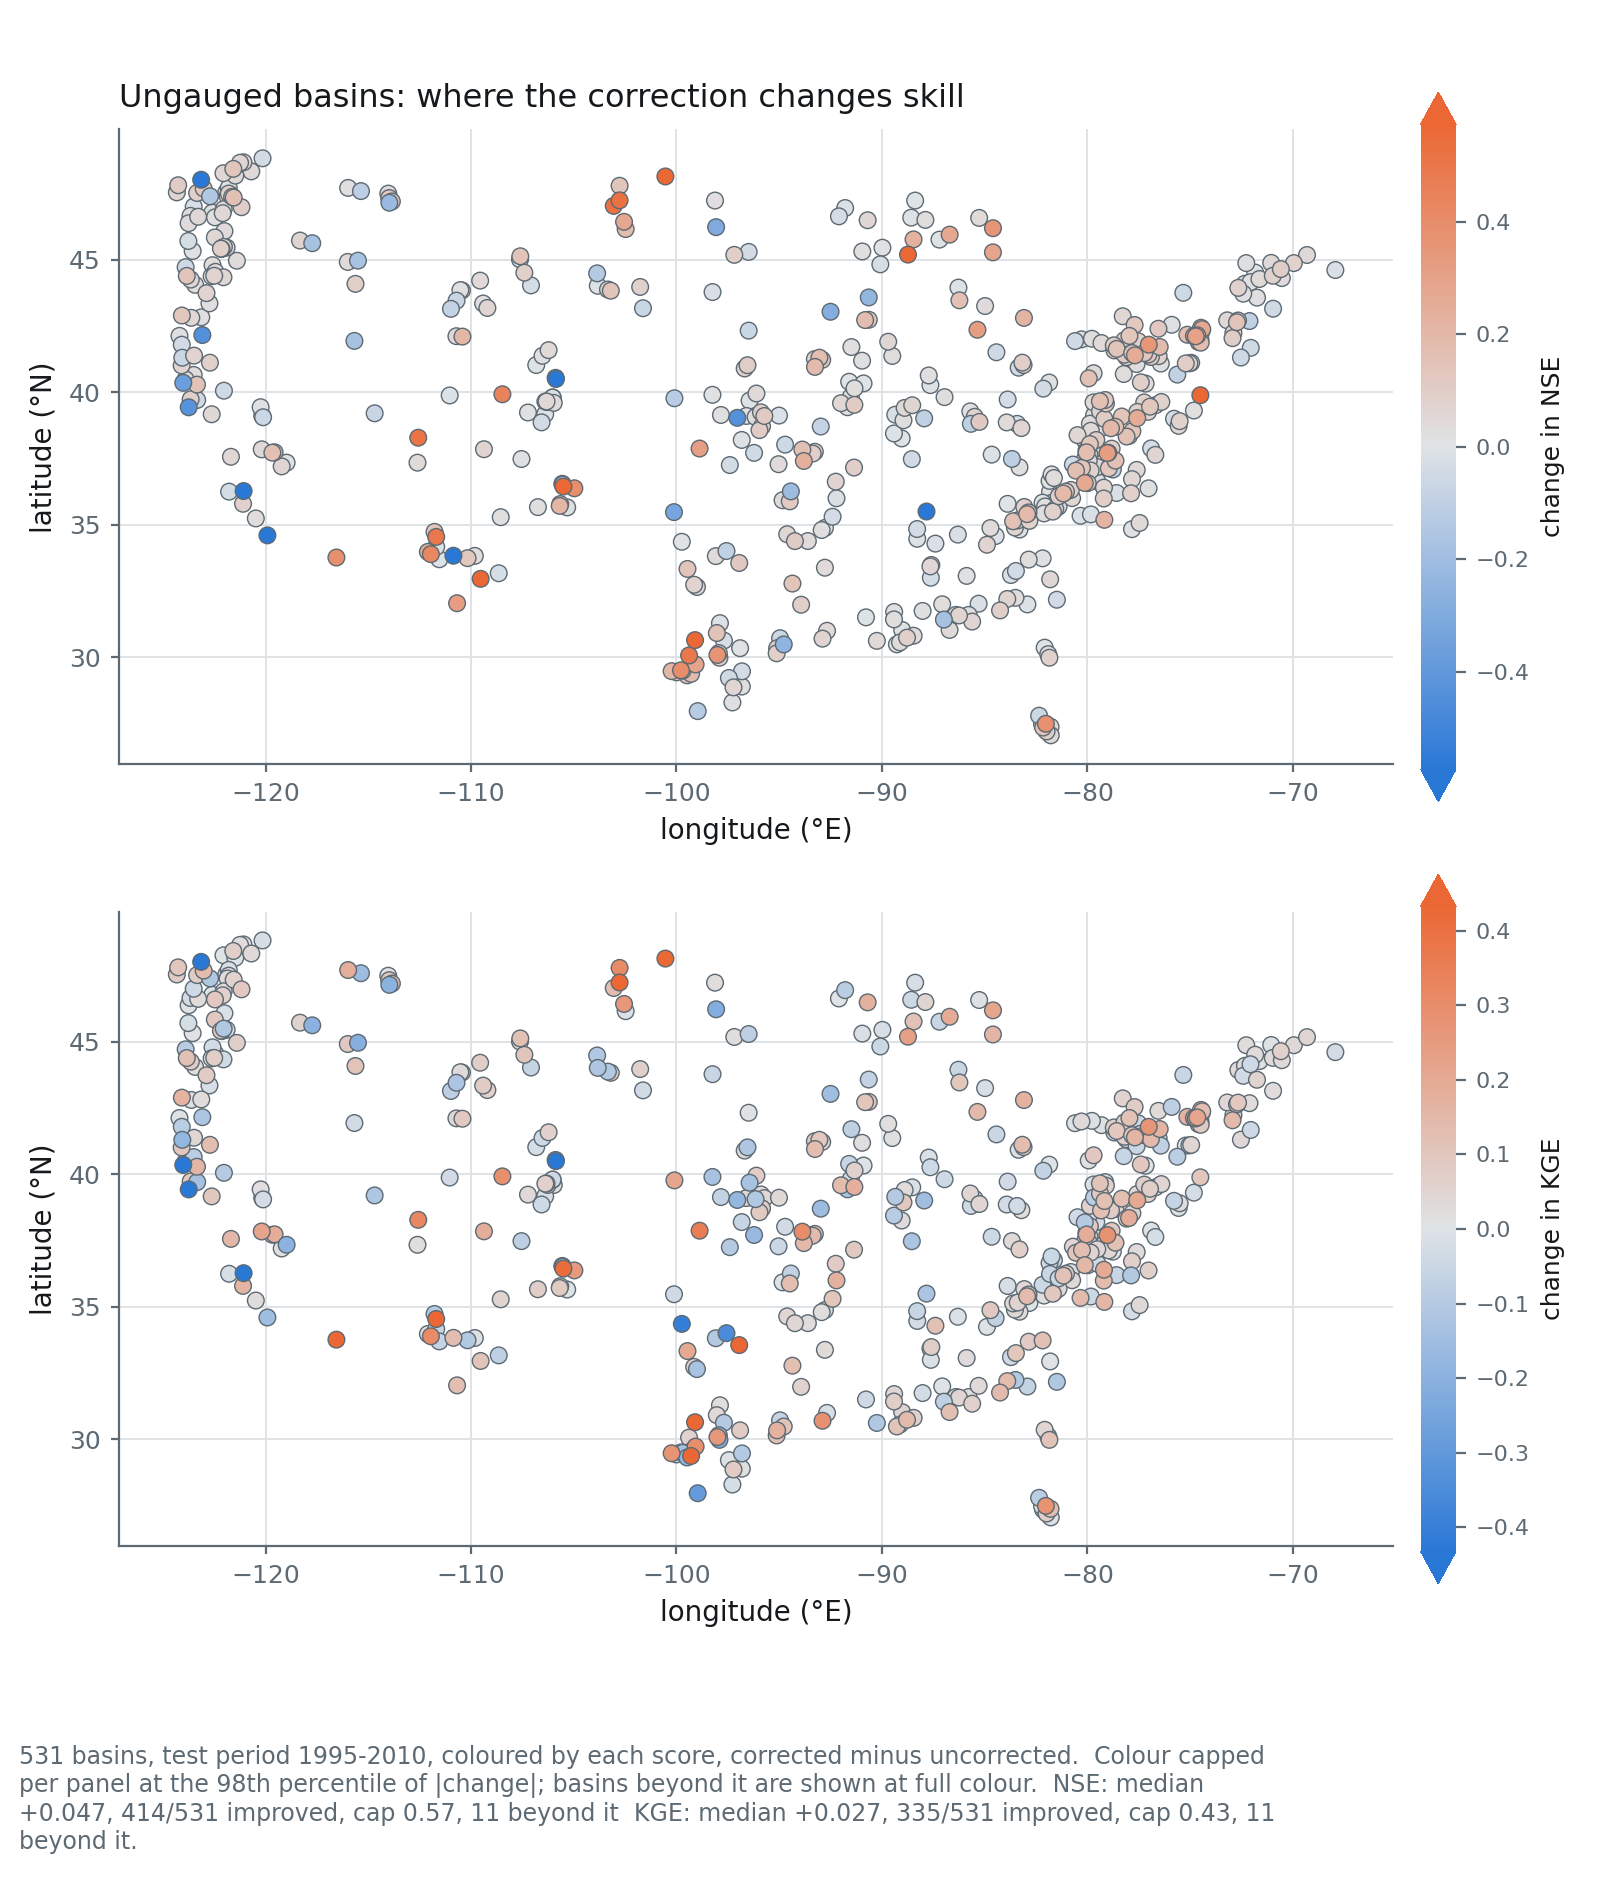
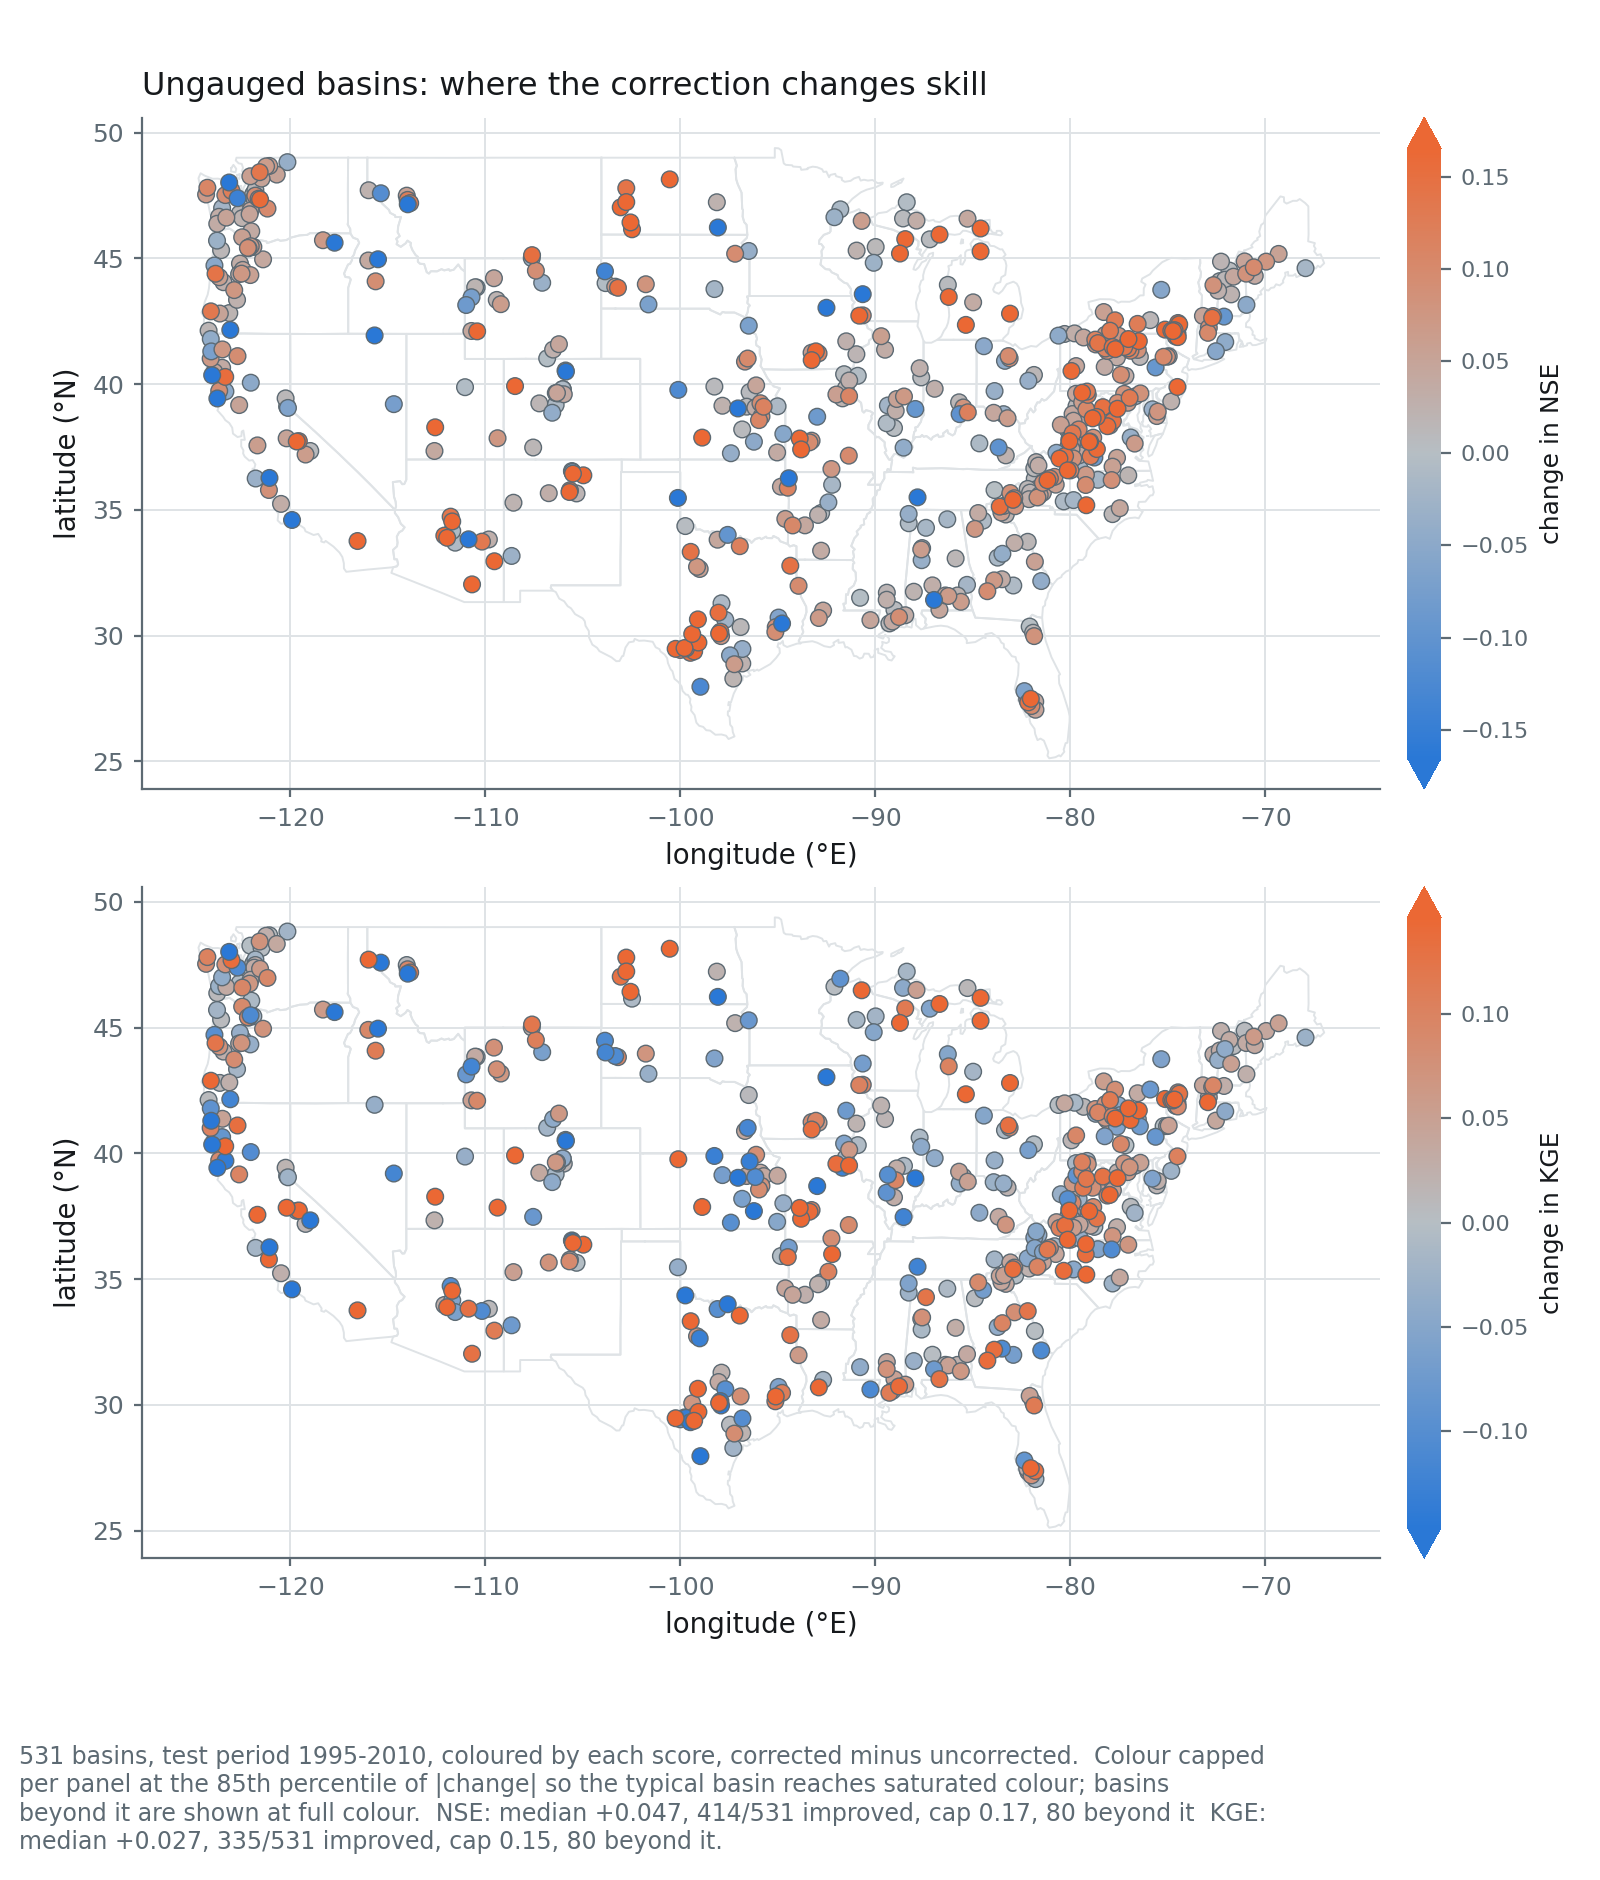
Add dim US state outlines to both map figures, fix the change map's colour scale
figures/palette.py gains draw_us_outline(ax): reads a small (59 KB) trimmed
GeoJSON of the 49 CONUS + DC state boundaries (public-domain, from
PublicaMundi/MappingAPI, Alaska/Hawaii/Puerto Rico dropped since no
CAMELS-US basin falls there) with the standard library only -- no
geopandas/shapely dependency for one background layer. Tracked at
data/us_states_conus.geojson alongside camels531.csv. Both make_change_map.py
and make_donor_map.py draw it dim, behind the data.

The change map's colour was still hard to read for two compounding reasons,
now fixed:

- The colour cap was the 98th percentile of |change|, but the middle 80% of
  basins only span roughly +/-0.15-0.2 -- so almost every ordinary basin sat
  in the pale, low-saturation middle third of the ramp, and only a handful
  of outliers ever reached real colour. Capped at the 85th percentile
  instead: the typical basin now reaches saturated colour, and the (more
  numerous) basins beyond the cap still show at full colour, arrows and
  caption count intact.
- The zero point was this project's near-white GRID, which reads as "no
  data" rather than "measured, unchanged" and all but disappears against
  the page. Replaced with a visibly grey DIVERGE_ZERO.

diff --git a/figures/make_change_map.py b/figures/make_change_map.py
@@ -11,16 +11,26 @@ this shows one continuous quantity with a sign (polarity, diverging colour), so 
 two-hue-plus-neutral palette rather than a generic diverging map.
 
 The two hues are the project's own BLUE and ORANGE -- the same pair every other figure uses for
-"LSTM" and "LSTM + correction" -- through a neutral grey at zero, rather than a stock diverging
-colormap (e.g. RdBu). Two reasons: the pair is already validated at far higher contrast than a
-typical diverging map (normal-vision dE 33.6, CVD dE 24.5 -- see palette.py), and orange already
-means "the correction" on every other page in this set, so an orange basin here reads as "the
-correction helped here" instead of introducing an unrelated hue for the same idea.
+"LSTM" and "LSTM + correction" -- through a neutral grey at zero. Orange already means "the
+correction" on every other page in this set, so an orange basin here reads as "the correction
+helped here" instead of introducing an unrelated hue for the same idea.
 
-The colour range is capped at the 98th percentile of |change| per panel rather than the true
-extreme, so one or two outlier basins do not wash out every other point to near-neutral; basins
-beyond the cap still show at full colour (the colourbar's arrows say so) and are counted in the
-caption.
+Two things matter more than the hue choice for actually being able to read this map, and both
+were wrong in an earlier version:
+
+  the colour cap    Most basins change by only a few hundredths -- the middle 80% span roughly
+                    +/-0.15-0.2 -- while a handful of near-zero-flow basins swing by 0.5 or more
+                    on one bad day. Capping the colour range at the true extreme (or even its
+                    98th percentile) spends most of the ramp on those few basins and leaves
+                    every ordinary basin sitting in the pale, low-contrast middle third of the
+                    ramp, which is what "hard to read" meant. Capping at the 85th percentile of
+                    |change| instead means the typical basin actually reaches saturated colour;
+                    the (now more numerous) basins beyond the cap are still shown at full
+                    colour, the colourbar's arrows say so, and the caption gives the count.
+
+  the neutral point   A pale, near-white grey at zero (this project's GRID) reads as "empty"
+                    rather than "measured, but unchanged", and blends into the page and the
+                    axis gridlines. The zero point uses a visibly grey, not a barely-there one.
 """
 import argparse
 import os
@@ -37,13 +47,18 @@ HERE = os.path.dirname(os.path.abspath(__file__))
 sys.path.insert(0, os.path.join(os.path.dirname(HERE), "src"))
 sys.path.insert(0, HERE)
 from evaluate import read_info, read_metrics  # noqa: E402
-from palette import BLUE, CELL_TITLE, GRID, INK, LABEL, MUTE, ORANGE, SERIES, TITLE  # noqa: E402
-from palette import caption, style  # noqa: E402
+from palette import BLUE, CELL_TITLE, INK, LABEL, MUTE, ORANGE, SERIES, TITLE  # noqa: E402
+from palette import caption, draw_us_outline, style  # noqa: E402
 from residual_postprocessing import BASINS_CSV  # noqa: E402
 
-# Blue (worse) -> the project's grid grey (no change) -> orange (better), the same identity
-# colours every other figure uses for "LSTM" and "LSTM + correction".
-CHANGE_CMAP = mcolors.LinearSegmentedColormap.from_list("change", [BLUE, GRID, ORANGE])
+# A visibly grey zero, not this project's near-white GRID (that reads as "empty" on a map, and
+# a marker filled with it is nearly invisible against the page).
+DIVERGE_ZERO = "#b6bec4"
+CHANGE_CMAP = mcolors.LinearSegmentedColormap.from_list("change", [BLUE, DIVERGE_ZERO, ORANGE])
+
+# The 85th percentile of |change|, not the 98th: see module docstring. ~15% of basins land
+# beyond it and show at the pole colour; that trade is what makes the typical basin readable.
+CAP_PERCENTILE = 85
 
 PANELS = [("nse", "NSE, Nash-Sutcliffe efficiency"), ("kge", "KGE, Kling-Gupta efficiency")]
 
@@ -65,8 +80,10 @@ def main(cell):
         lon = loc.loc[gain.index, "gauge_lon"].to_numpy()
         g = gain.to_numpy()
 
-        cap = np.percentile(np.abs(g), 98)
+        cap = np.percentile(np.abs(g), CAP_PERCENTILE)
         norm = mcolors.TwoSlopeNorm(vcenter=0.0, vmin=-cap, vmax=cap)
+
+        draw_us_outline(ax)
         order = np.argsort(np.abs(g))  # draw the biggest changes last, on top
         sc = ax.scatter(lon[order], lat[order], c=g[order], cmap=CHANGE_CMAP, norm=norm, s=36,
                         edgecolor=MUTE, linewidth=0.5, zorder=3)
@@ -92,8 +109,9 @@ def main(cell):
 
     bottom = caption(fig, f"{n_basins} basins, "
                           f"test period {info['test_period']}, coloured by each score, corrected "
-                          f"minus uncorrected.  Colour capped per panel at the 98th percentile "
-                          f"of |change|; basins beyond it are shown at full colour.  "
+                          f"minus uncorrected.  Colour capped per panel at the {CAP_PERCENTILE}th "
+                          f"percentile of |change| so the typical basin reaches saturated "
+                          f"colour; basins beyond it are shown at full colour.  "
                           f"{'  '.join(lines)}.", 104)
     fig.tight_layout(rect=(0, bottom, 1, 0.97))
     out = f"{HERE}/{cell}_change_map.png"

diff --git a/figures/palette.py b/figures/palette.py
@@ -17,6 +17,8 @@ It reports OKLab dE (x100) between every simultaneous pair under normal vision a
 simulated protanopia and deuteranopia (Vienot et al. 1999). Normal-vision dE >= 15 and CVD
 dE >= 8 pass; 6-8 is legal only with a second, non-colour encoding; below that, re-step.
 """
+import json
+import os
 import textwrap
 
 import numpy as np
@@ -48,6 +50,30 @@ def style(ax):
         ax.spines[side].set_color(MUTE)
         ax.spines[side].set_linewidth(0.8)
     ax.tick_params(colors=MUTE, labelsize=TICK, length=3)
+
+
+# CONUS + DC state boundaries, trimmed from a public-domain simplified GeoJSON
+# (PublicaMundi/MappingAPI) to the 49 features CAMELS-US basins ever fall inside -- no Alaska,
+# Hawaii or Puerto Rico. 59 KB, tracked alongside data/camels531.csv rather than fetched at
+# plot time, so a figure never depends on network access.
+US_STATES_GEOJSON = os.path.join(os.path.dirname(os.path.dirname(os.path.abspath(__file__))),
+                                 "data", "us_states_conus.geojson")
+
+
+def draw_us_outline(ax, color=GRID, lw=0.7, zorder=1):
+    """State boundaries, drawn dim and behind the data -- geographic context, not a series.
+
+    Reads GeoJSON with the standard library only (no geopandas/shapely dependency for one
+    background layer); handles the Polygon and MultiPolygon geometries the states need.
+    """
+    states = json.load(open(US_STATES_GEOJSON))
+    for feature in states["features"]:
+        geom = feature["geometry"]
+        rings = geom["coordinates"] if geom["type"] == "Polygon" else \
+            [ring for poly in geom["coordinates"] for ring in poly]
+        for ring in rings:
+            xy = np.asarray(ring)
+            ax.plot(xy[:, 0], xy[:, 1], color=color, lw=lw, zorder=zorder)
 
 
 def caption(fig, text, width=120):

diff --git a/figures/make_donor_map.py b/figures/make_donor_map.py
@@ -28,7 +28,7 @@ sys.path.insert(0, os.path.join(os.path.dirname(HERE), "src"))
 sys.path.insert(0, HERE)
 from evaluate import fold_settings, read_info, read_metrics  # noqa: E402
 from palette import CELL_TITLE, CORRECTED, INK, LABEL, MUTE, RAW, TITLE  # noqa: E402
-from palette import caption, style  # noqa: E402
+from palette import caption, draw_us_outline, style  # noqa: E402
 from residual_postprocessing import (BASINS_CSV, basin_ids, distance_matrix,  # noqa: E402
                                      fold_labels, idw_weights)
 
@@ -66,6 +66,7 @@ def main(cell):
     # Shaped to the CONUS aspect the `set_aspect` below enforces, so the axes fill the
     # figure instead of floating in a band of white.
     fig, ax = plt.subplots(figsize=(8.0, 5.2))
+    draw_us_outline(ax)
     # Thicker and darker than the default MUTE grid ink, so the donor links read clearly
     # against the basin points rather than disappearing into the background.
     ax.add_collection(LineCollection(segs, colors=INK, linewidths=1.1, zorder=2,

diff --git a/README.md b/README.md
@@ -48,7 +48,7 @@ measured against each other rather than assumed; see METHOD.md 5.
 | `src/lstm/02_lstm_ungauged.py` | train one run per (fold, seed) |
 | `figures/evaluate.py` | score the corrections into the CSVs the figures read |
 | `figures/make_*.py` | one script per figure; `palette.py` holds the shared style |
-| `data/` | `camels531.csv` and the fold assignment (tracked); `raw/`, `cache/` (gitignored) |
+| `data/` | `camels531.csv`, fold assignment, US state outlines for the map figures (tracked); `raw/`, `cache/` (gitignored) |
 | `runs/<model>/` | predictions and corrections, per model family (gitignored) |
 
 Everything is run as `python <path>.py` — no packages, no `-m`. The post-processing never

diff --git a/CLAUDE.md b/CLAUDE.md
@@ -24,7 +24,7 @@ in time).
 | `src/lstm/02_lstm_ungauged.py` | Train per (fold, seed) → `runs/lstm/ungauged/` |
 | `figures/evaluate.py` | Metrics → `figures/metrics_*.csv`, `tuning_*.csv`, `run_info.json` |
 | `figures/make_*.py` | One script per figure; `palette.py` holds the shared style |
-| `data/` | `camels531.csv`, fold assignment (tracked); `raw/`, `cache/` (gitignored) |
+| `data/` | `camels531.csv`, fold assignment, US state outlines (tracked); `raw/`, `cache/` (gitignored) |
 | `runs/` | Per-model predictions and corrections (gitignored) |
 
 Everything runs as `python <path>.py` — no packages, no `python -m`. The digit-prefixed scripts
